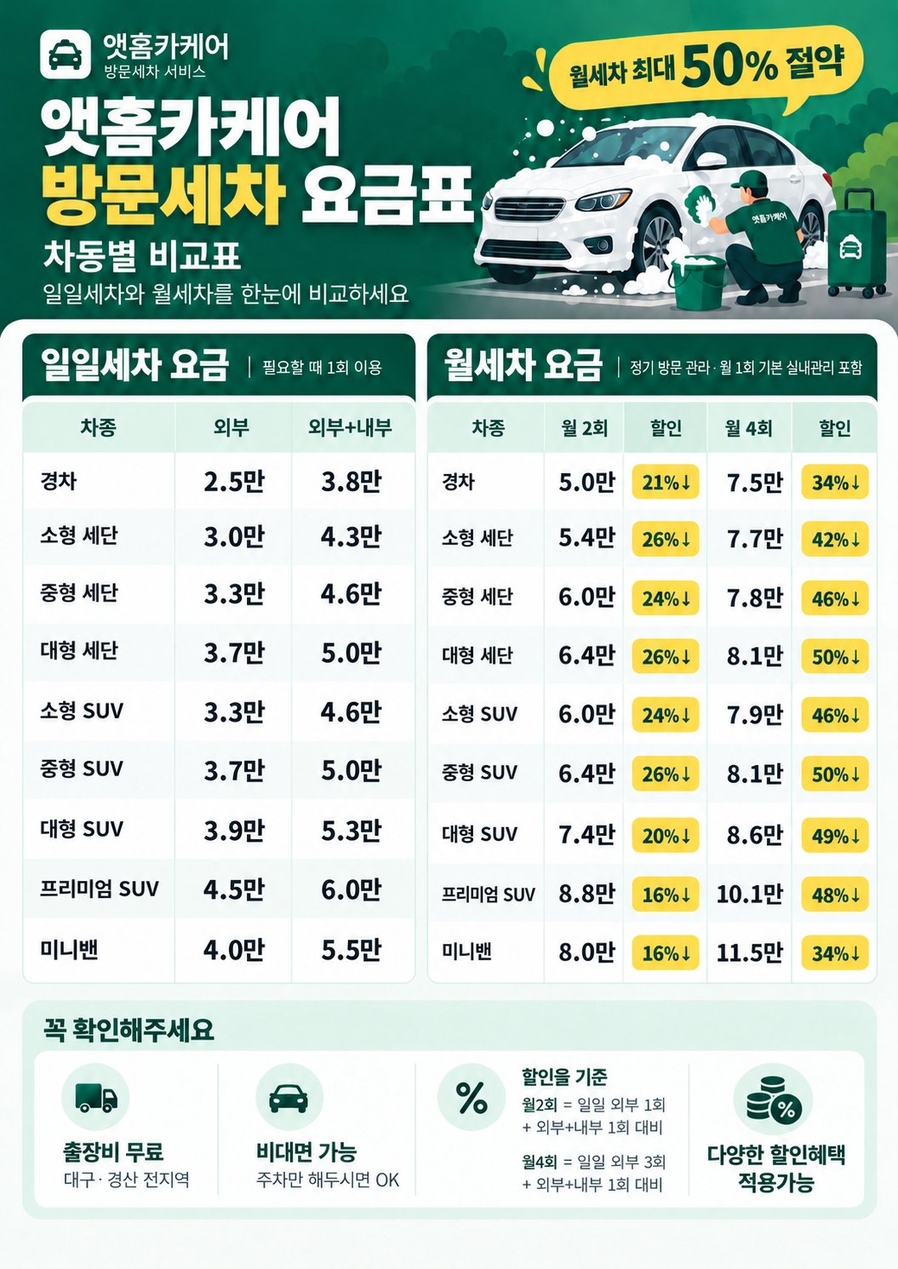
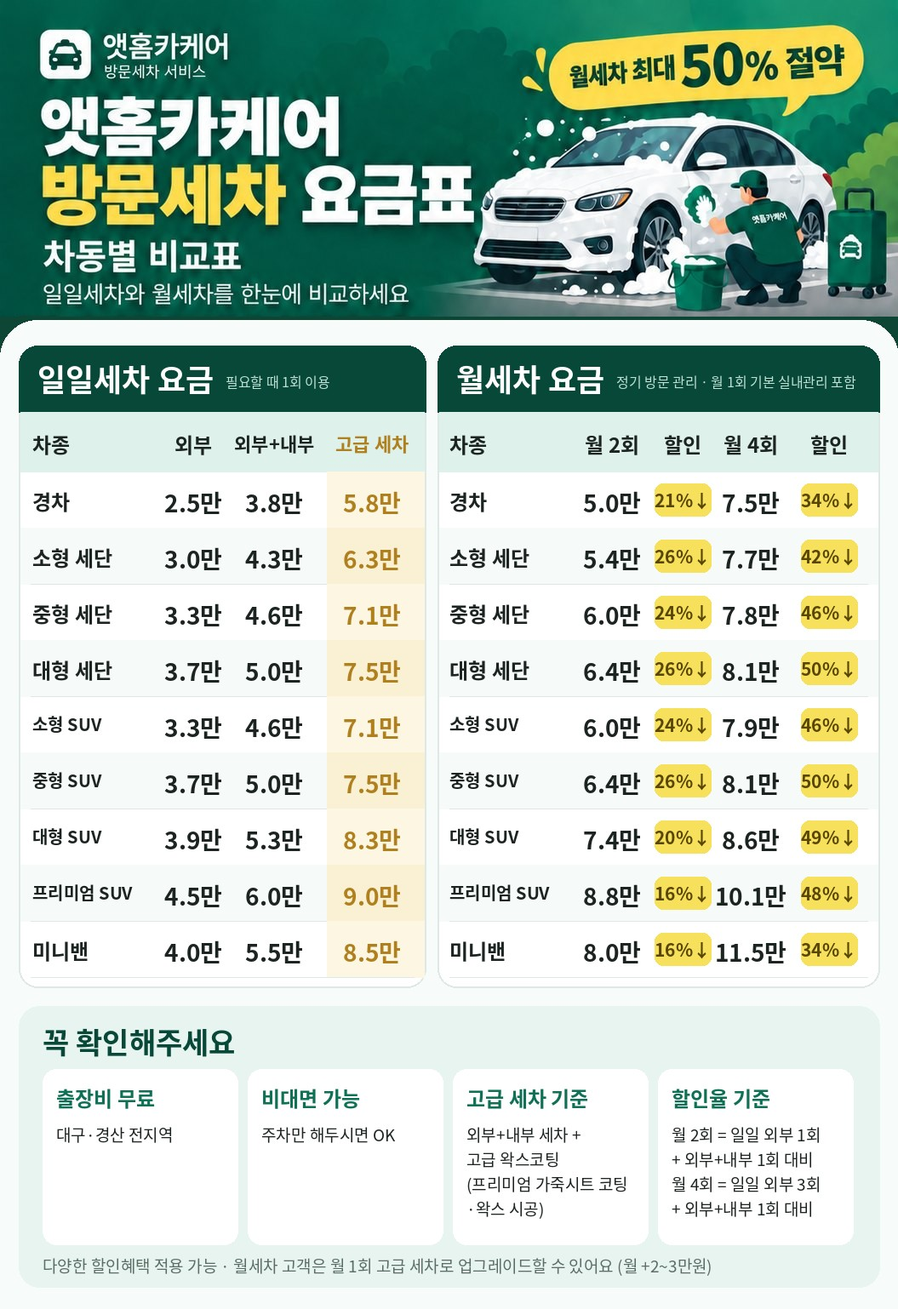
Add files via upload

Changed region(s): [[0.0, 0.0, 1.0, 0.9873]]

diff --git a/index.html b/index.html
@@ -102,7 +102,7 @@
 
         <section class="content-section" id="priceTableSection">
           <div class="section-head"><div><span class="section-kicker">PRICE</span><h2>방문세차 요금표</h2></div><button class="text-link" data-go="menu">차종별 상세 →</button></div>
-          <img class="process-img" src="assets/info/price-table.jpg" width="1055" height="1491" loading="lazy" alt="앳홈카케어 방문세차 요금표: 차종별 일일세차(외부·외부+내부)와 월세차(월 2회·월 4회) 요금 비교. 출장비 무료, 비대면 가능">
+          <img class="process-img" src="assets/info/price-table.jpg" width="1055" height="1538" loading="lazy" alt="앳홈카케어 방문세차 요금표: 차종별 일일세차(외부·외부+내부·고급 세차)와 월세차(월 2회·월 4회) 요금 비교. 출장비 무료, 비대면 가능">
         </section>
 
         <section class="content-section" id="washGuideSection">
@@ -328,6 +328,7 @@
         .pw-lines li + li{border-top:1px solid var(--pw-line)}
         .pw-lines li::before{content:none}
         .pw-lines dfn{font-style:normal;color:var(--pw-muted)}
+        .pw-lines dfn small{display:block;font-size:.72rem;opacity:.85}
         .pw-lines b{font-size:1.02rem;font-weight:900;letter-spacing:-.02em;white-space:nowrap}
 
         @media (prefers-reduced-motion:reduce){.pw *{transition:none!important}}
@@ -348,6 +349,7 @@
                   <ul class="pw-lines">
                     <li><dfn>월 4회</dfn><b>7.5만원</b></li>
                     <li><dfn>월 2회</dfn><b>5만원</b></li>
+                    <li><dfn>고급 업그레이드 <small>월 1회 고급 세차</small></dfn><b>+2만원</b></li>
                   </ul>
                 </div>
                 <div class="pw-group">
@@ -373,6 +375,7 @@
                   <ul class="pw-lines">
                     <li><dfn>월 4회</dfn><b>7.7만원</b></li>
                     <li><dfn>월 2회</dfn><b>5.4만원</b></li>
+                    <li><dfn>고급 업그레이드 <small>월 1회 고급 세차</small></dfn><b>+2만원</b></li>
                   </ul>
                 </div>
                 <div class="pw-group">
@@ -398,6 +401,7 @@
                   <ul class="pw-lines">
                     <li><dfn>월 4회</dfn><b>7.8만원</b></li>
                     <li><dfn>월 2회</dfn><b>6만원</b></li>
+                    <li><dfn>고급 업그레이드 <small>월 1회 고급 세차</small></dfn><b>+2.5만원</b></li>
                   </ul>
                 </div>
                 <div class="pw-group">
@@ -423,6 +427,7 @@
                   <ul class="pw-lines">
                     <li><dfn>월 4회</dfn><b>8.1만원</b></li>
                     <li><dfn>월 2회</dfn><b>6.4만원</b></li>
+                    <li><dfn>고급 업그레이드 <small>월 1회 고급 세차</small></dfn><b>+2.5만원</b></li>
                   </ul>
                 </div>
                 <div class="pw-group">
@@ -448,6 +453,7 @@
                   <ul class="pw-lines">
                     <li><dfn>월 4회</dfn><b>7.9만원</b></li>
                     <li><dfn>월 2회</dfn><b>6만원</b></li>
+                    <li><dfn>고급 업그레이드 <small>월 1회 고급 세차</small></dfn><b>+2.5만원</b></li>
                   </ul>
                 </div>
                 <div class="pw-group">
@@ -473,6 +479,7 @@
                   <ul class="pw-lines">
                     <li><dfn>월 4회</dfn><b>8.1만원</b></li>
                     <li><dfn>월 2회</dfn><b>6.4만원</b></li>
+                    <li><dfn>고급 업그레이드 <small>월 1회 고급 세차</small></dfn><b>+2.5만원</b></li>
                   </ul>
                 </div>
                 <div class="pw-group">
@@ -498,6 +505,7 @@
                   <ul class="pw-lines">
                     <li><dfn>월 4회</dfn><b>8.6만원</b></li>
                     <li><dfn>월 2회</dfn><b>7.4만원</b></li>
+                    <li><dfn>고급 업그레이드 <small>월 1회 고급 세차</small></dfn><b>+3만원</b></li>
                   </ul>
                 </div>
                 <div class="pw-group">
@@ -523,6 +531,7 @@
                   <ul class="pw-lines">
                     <li><dfn>월 4회</dfn><b>10.1만원</b></li>
                     <li><dfn>월 2회</dfn><b>8.8만원</b></li>
+                    <li><dfn>고급 업그레이드 <small>월 1회 고급 세차</small></dfn><b>+3만원</b></li>
                   </ul>
                 </div>
                 <div class="pw-group">
@@ -549,6 +558,7 @@
                   <ul class="pw-lines">
                     <li><dfn>월 4회</dfn><b>11.5만원</b></li>
                     <li><dfn>월 2회</dfn><b>8만원</b></li>
+                    <li><dfn>고급 업그레이드 <small>월 1회 고급 세차</small></dfn><b>+3만원</b></li>
                   </ul>
                 </div>
                 <div class="pw-group">
@@ -562,32 +572,6 @@
               </div>
             </div>
 
-
-            <div class="pw-item">
-              <button class="pw-row" type="button" aria-expanded="false" aria-controls="pw-p10">
-                <span class="pw-name">화물 · 탑차<span class="pw-models">포터 · 봉고 · 탑차 · 카고 등</span></span>
-                <span class="pw-from">5만원~</span>
-                <span class="pw-chev" aria-hidden="true"></span>
-              </button>
-              <div class="pw-panel" id="pw-p10">
-                <div class="pw-group">
-                  <p class="pw-gtitle">월세차 <span>업무용 차량 정기관리</span></p>
-                  <ul class="pw-lines">
-                    <li><dfn>월 4회</dfn><b>13.5만원</b></li>
-                    <li><dfn>월 2회</dfn><b>9.5만원</b></li>
-                  </ul>
-                </div>
-                <div class="pw-group">
-                  <p class="pw-gtitle">일일세차 <span>캡 + 탑 외부 포함</span></p>
-                  <ul class="pw-lines">
-                    <li><dfn>외부</dfn><b>5만원</b></li>
-                    <li><dfn>외부+캡 실내</dfn><b>6.5만원</b></li>
-                    <li><dfn>고급 세차</dfn><b>9.5만원</b></li>
-                  </ul>
-                </div>
-                <p class="pw-note">실내 옵션은 캡이 좁아 중형 요금이 적용됩니다. 탑 내부(적재함) 청소는 오염도에 따라 3~5만원 별도 견적입니다.</p>
-              </div>
-            </div>
 
           </div>
         </section>
@@ -616,7 +600,7 @@
         <!-- ▲▲▲ 차종별 요금 아코디언 끝 ▲▲▲ -->
 
         <div class="two-col">
-          <article class="panel"><h2>추가 옵션</h2><p class="opt-size-note">차량 크기에 따라 금액이 달라집니다. 소형: 경차·소형 세단 · 중형: 중형·대형 세단, 소형·중형 SUV · 대형: 대형 SUV, 프리미엄 SUV, 미니밴, 화물·탑차(실내 옵션은 중형). 실내 옵션은 외부세차에 추가할 때 기준이며, 실내까지 원하시면 외부+내부 세차가 더 저렴합니다.</p><div class="option-list"><div><span>휠 철분·집중세정<small class="opt-size">소형 1만 · 중형 1.2만 · 대형 1.5만</small></span><b>+10,000원~</b></div><div><span>고급 왁스코팅<small class="opt-size">소형 2만 · 중형 2.5만 · 대형 3만</small></span><b>+20,000원~</b></div><div><span>실내 집중세차<small class="opt-size">소형 1.5만 · 중형 1.8만 · 대형 2.2만</small></span><b>+15,000원~</b></div><div><span>트렁크 청소<small class="opt-size">소형 1만 · 중형 1만 · 대형 1.5만</small></span><b>+10,000원~</b></div><div><span>벌레·타르 제거<small class="opt-size">소형 1만 · 중형 1.2만 · 대형 1.5만</small></span><b>+10,000원~</b></div><div><span>유리 유막제거<small class="opt-size">소형 1.5만 · 중형 1.8만 · 대형 2.2만</small></span><b>+15,000원~</b></div><div><span>발수코팅<small class="opt-size">소형 2만 · 중형 2.5만 · 대형 3만</small></span><b>+20,000원~</b></div><div><span>엔진룸 클리닝<small class="opt-size">소형 2만 · 중형 2.5만 · 대형 3만</small><small class="opt-size2">전기차·수소차 제외</small></span><b>+20,000원~</b></div><div><span>송진 제거<small class="opt-size">가벼움 1만 · 보통 2만 · 심함 별도</small><small class="opt-size2">현장 확인 후 추가될 수 있어요</small></span><b>+10,000원~</b></div></div>
+          <article class="panel"><h2>추가 옵션</h2><p class="opt-size-note">차량 크기에 따라 금액이 달라집니다. 소형: 경차·소형 세단 · 중형: 중형·대형 세단, 소형·중형 SUV · 대형: 대형 SUV, 프리미엄 SUV, 미니밴. 실내 옵션은 외부세차에 추가할 때 기준이며, 실내까지 원하시면 외부+내부 세차가 더 저렴합니다.</p><div class="option-list"><div><span>휠 철분·집중세정<small class="opt-size">소형 1만 · 중형 1.2만 · 대형 1.5만</small></span><b>+10,000원~</b></div><div><span>고급 왁스코팅<small class="opt-size">소형 2만 · 중형 2.5만 · 대형 3만</small></span><b>+20,000원~</b></div><div><span>실내 집중세차<small class="opt-size">소형 1.5만 · 중형 1.8만 · 대형 2.2만</small></span><b>+15,000원~</b></div><div><span>트렁크 청소<small class="opt-size">소형 1만 · 중형 1만 · 대형 1.5만</small></span><b>+10,000원~</b></div><div><span>벌레·타르 제거<small class="opt-size">소형 1만 · 중형 1.2만 · 대형 1.5만</small></span><b>+10,000원~</b></div><div><span>유리 유막제거<small class="opt-size">소형 1.5만 · 중형 1.8만 · 대형 2.2만</small></span><b>+15,000원~</b></div><div><span>발수코팅<small class="opt-size">소형 2만 · 중형 2.5만 · 대형 3만</small></span><b>+20,000원~</b></div><div><span>엔진룸 클리닝<small class="opt-size">소형 2만 · 중형 2.5만 · 대형 3만</small><small class="opt-size2">전기차·수소차 제외</small></span><b>+20,000원~</b></div><div><span>송진 제거<small class="opt-size">가벼움 1만 · 보통 2만 · 심함 별도</small><small class="opt-size2">현장 확인 후 추가될 수 있어요</small></span><b>+10,000원~</b></div></div>
             <div class="opt-detail">
               <h3>🌲 송진 제거 단계</h3>
               <table class="opt-step"><tr><th>가벼움</th><td>몇 군데, 손톱만 한 크기, 아직 말랑함</td><td>10,000원</td></tr>
@@ -717,6 +701,7 @@
         <h2 class="vip-title">월세차 고객이라면, 늘 함께하는 혜택</h2>
         <div class="vip-benefits">
           <article class="vip-card"><span class="vip-ic">🎁</span><h4>첫 달 할인</h4><p>월 4회 <b>10,000원</b>, 월 2회 <b>5,000원</b> 할인이 첫 달에 자동으로 적용돼요.</p></article>
+          <article class="vip-card"><span class="vip-ic">✨</span><h4>고급 세차 업그레이드</h4><p>월 2회·월 4회 모두 매달 1회를 <b>고급 세차</b>(프리미엄 가죽시트 코팅 + 프리미엄 왁스 시공)로 업그레이드할 수 있어요. <small class="vip-worth">차량 크기별 월 +20,000~30,000원</small></p></article>
           <article class="vip-card"><span class="vip-ic">🏆</span><h4>3개월 이용 감사 혜택</h4><p>3개월 이용하실 때마다 <b>고급 왁스코팅 1회</b>를 무료로 해드려요.<br><small class="vip-worth">옵션 요금 기준 소형 20,000원 · 중형 25,000원 · 대형 30,000원 상당</small></p></article>
           <article class="vip-card"><span class="vip-ic">🏢</span><h4>같은 아파트 함께 신청</h4><p>같은 아파트에서 <b>5대 이상</b> 신청하시면 차량당 <b>5,000원</b> 할인돼요.</p></article>
           <article class="vip-card"><span class="vip-ic">📋</span><h4>매달 차량 관리 리포트</h4><p>한 달 동안의 <b>작업 전후 사진</b>과 차량 상태, <b>다음 달 추천 관리</b>를 정리해 보내드려요.</p></article>
@@ -792,7 +777,6 @@
               <option>대형 SUV</option>
               <option>프리미엄 SUV</option>
               <option>미니밴</option>
-              <option>화물·탑차</option>
             </select></label>
             <label>희망 서비스<select name="service">
               <option>월 2회</option>
@@ -807,6 +791,7 @@
             <div class="span-2 opt-field">
               <span class="opt-title">추가 옵션 <small class="field-hint">필요한 항목을 선택하세요 (선택사항)</small></span>
               <div class="opt-grid">
+                <label class="opt-chip"><input type="checkbox" name="options" value="월세차 고급 업그레이드"><span>월세차 고급 업그레이드<small>월 1회 고급 세차 +20,000원~</small></span></label>
                 <label class="opt-chip"><input type="checkbox" name="options" value="휠 철분·집중세정"><span>휠 철분·집중세정<small>+10,000원~</small></span></label>
                 <label class="opt-chip"><input type="checkbox" name="options" value="고급 왁스코팅"><span>고급 왁스코팅<small>+20,000원~</small></span></label>
                 <label class="opt-chip"><input type="checkbox" name="options" value="실내 집중세차"><span>실내 집중세차<small>+15,000원~</small></span></label>

diff --git a/app.js b/app.js
@@ -410,8 +410,8 @@ function bindEvents() {
 
 /* ── 제조사 · 모델 선택 + 차종 구분 자동 지정 ─────────────────── */
 const CAR_DB = [
-  ['현대', [['캐스퍼','경차'], ['아반떼','소형 세단'], ['쏘나타','중형 세단'], ['그랜저','대형 세단'], ['아이오닉5','중형 SUV'], ['아이오닉7','대형 SUV'], ['아이오닉6','중형 세단'], ['아이오닉9','대형 SUV'], ['베뉴','소형 SUV'], ['코나','소형 SUV'], ['투싼','중형 SUV'], ['싼타페','대형 SUV'], ['넥쏘','중형 SUV'], ['팰리세이드','대형 SUV'], ['스타리아','미니밴'], ['포터','화물·탑차'], ['포터 일렉트릭','화물·탑차']]],
-  ['기아', [['모닝','경차'], ['레이','소형 SUV'], ['K3','소형 세단'], ['K5','중형 세단'], ['K8','대형 세단'], ['K9','대형 세단'], ['스팅어','중형 세단'], ['EV3','소형 SUV'], ['EV4','소형 세단'], ['EV5','중형 SUV'], ['셀토스','소형 SUV'], ['니로','중형 SUV'], ['EV6','중형 SUV'], ['스포티지','중형 SUV'], ['쏘렌토','대형 SUV'], ['EV9','대형 SUV'], ['모하비','대형 SUV'], ['카니발','미니밴'], ['봉고','화물·탑차'], ['봉고 EV','화물·탑차']]],
+  ['현대', [['캐스퍼','경차'], ['아반떼','소형 세단'], ['쏘나타','중형 세단'], ['그랜저','대형 세단'], ['아이오닉5','중형 SUV'], ['아이오닉7','대형 SUV'], ['아이오닉6','중형 세단'], ['아이오닉9','대형 SUV'], ['베뉴','소형 SUV'], ['코나','소형 SUV'], ['투싼','중형 SUV'], ['싼타페','대형 SUV'], ['넥쏘','중형 SUV'], ['팰리세이드','대형 SUV'], ['스타리아','미니밴'], ]],
+  ['기아', [['모닝','경차'], ['레이','소형 SUV'], ['K3','소형 세단'], ['K5','중형 세단'], ['K8','대형 세단'], ['K9','대형 세단'], ['스팅어','중형 세단'], ['EV3','소형 SUV'], ['EV4','소형 세단'], ['EV5','중형 SUV'], ['셀토스','소형 SUV'], ['니로','중형 SUV'], ['EV6','중형 SUV'], ['스포티지','중형 SUV'], ['쏘렌토','대형 SUV'], ['EV9','대형 SUV'], ['모하비','대형 SUV'], ['카니발','미니밴'], ]],
   ['제네시스', [['G70','소형 세단'], ['G80','대형 세단'], ['G90','대형 세단'], ['GV60','소형 SUV'], ['GV70','중형 SUV'], ['GV80','프리미엄 SUV']]],
   ['KG모빌리티(쌍용)', [['티볼리','소형 SUV'], ['코란도','소형 SUV'], ['액티언','중형 SUV'], ['토레스','중형 SUV'], ['렉스턴','프리미엄 SUV'], ['렉스턴 스포츠','대형 SUV']]],
   ['르노코리아', [['SM6','중형 세단'], ['XM3·아르카나','소형 SUV'], ['캡처','소형 SUV'], ['QM6','중형 SUV'], ['그랑 콜레오스','중형 SUV'], ['세닉 E-Tech','소형 SUV']]],
@@ -421,7 +421,7 @@ const CAR_DB = [
   ['아우디', [['A3','소형 세단'], ['A4','소형 세단'], ['A5','중형 세단'], ['A6','대형 세단'], ['A7','대형 세단'], ['e-트론 GT','대형 세단'], ['A8','대형 세단'], ['Q2','소형 SUV'], ['Q3','소형 SUV'], ['Q4 e-트론','중형 SUV'], ['Q6 e-트론','중형 SUV'], ['Q5','중형 SUV'], ['Q7','프리미엄 SUV'], ['Q8','프리미엄 SUV']]],
   ['폭스바겐', [['폴로','소형 세단'], ['골프','소형 세단'], ['제타','소형 세단'], ['파사트','중형 세단'], ['아테온','중형 세단'], ['티록','소형 SUV'], ['티구안','중형 SUV'], ['ID.4','중형 SUV'], ['ID.5','중형 SUV'], ['투아렉','프리미엄 SUV']]],
   ['볼보', [['S60','중형 세단'], ['S90','대형 세단'], ['V60','중형 세단'], ['EX30','소형 SUV'], ['EX40','중형 SUV'], ['XC40','소형 SUV'], ['XC60','중형 SUV'], ['XC90','프리미엄 SUV'], ['EX90','프리미엄 SUV']]],
-  ['테슬라', [['모델3','중형 세단'], ['모델Y','중형 SUV'], ['사이버트럭','화물·탑차'], ['모델S','대형 세단'], ['모델X','프리미엄 SUV']]],
+  ['테슬라', [['모델3','중형 세단'], ['모델Y','중형 SUV'], ['모델S','대형 세단'], ['모델X','프리미엄 SUV']]],
   ['렉서스', [['IS','소형 세단'], ['ES','대형 세단'], ['LS','대형 세단'], ['UX','소형 SUV'], ['NX','중형 SUV'], ['RX','프리미엄 SUV'], ['LM','미니밴']]],
   ['토요타', [['코롤라','소형 세단'], ['프리우스','소형 세단'], ['캠리','중형 세단'], ['크라운','중형 세단'], ['RAV4','중형 SUV'], ['하이랜더','대형 SUV'], ['시에나','미니밴'], ['알파드','미니밴']]],
   ['혼다', [['시빅','소형 세단'], ['어코드','중형 세단'], ['CR-V','중형 SUV'], ['파일럿','대형 SUV'], ['오딧세이','미니밴']]],
@@ -450,12 +450,12 @@ const PRICE_TABLE = {
   '대형 SUV': { '월 4회': 86000, '월 2회': 74000, '일일 외부세차': 39000, '외부+내부세차': 53000, '고급 세차': 83000 },
   '프리미엄 SUV': { '월 4회': 101000, '월 2회': 88000, '일일 외부세차': 45000, '외부+내부세차': 60000, '고급 세차': 90000 },
   '미니밴': { '월 4회': 115000, '월 2회': 80000, '일일 외부세차': 40000, '외부+내부세차': 55000, '고급 세차': 85000 },
-  '화물·탑차': { '월 4회': 135000, '월 2회': 95000, '일일 외부세차': 50000, '외부+내부세차': 65000, '고급 세차': 95000 },
 };
 /* 추가 옵션 — 차량 크기별 [소형, 중형, 대형] */
 const OPTION_PRICES = {
   '휠 철분·집중세정':   [10000, 12000, 15000],
   '고급 왁스코팅':   [20000, 25000, 30000],
+  '월세차 고급 업그레이드': [20000, 25000, 30000],   // 월세차 매달 1회 고급 세차(프리미엄 가죽시트 코팅 + 프리미엄 왁스 시공) 업그레이드
   '실내 집중세차':      [15000, 18000, 22000],
   '트렁크 청소':        [10000, 10000, 15000],
   '벌레·타르 제거':     [10000, 12000, 15000],
@@ -467,13 +467,10 @@ const OPTION_PRICES = {
 const SIZE_OF_CLASS = {
   '경차': 0, '소형 세단': 0,
   '중형 세단': 1, '대형 세단': 1, '소형 SUV': 1, '중형 SUV': 1,
-  '대형 SUV': 2, '프리미엄 SUV': 2, '미니밴': 2, '화물·탑차': 2,
+  '대형 SUV': 2, '프리미엄 SUV': 2, '미니밴': 2,
 };
 const SIZE_LABEL = ['소형', '중형', '대형'];
-/* 화물·탑차는 캡 실내가 좁아 실내 옵션만 중형 요금 적용 */
-const INTERIOR_OPTIONS = new Set(['실내 집중세차']);
 function optionSize(name, cls) {
-  if (cls === '화물·탑차' && INTERIOR_OPTIONS.has(name)) return 1;
   return SIZE_OF_CLASS[cls] ?? 0;
 }
 function optionPrice(name, cls) {
@@ -518,10 +515,12 @@ function refreshOptionChips(form) {
   const known = cls in SIZE_OF_CLASS;
   form.querySelectorAll('[name="options"]').forEach((box) => {
     const chip = box.closest('label');
-    // 화물·탑차는 트렁크가 없어 트렁크 청소 옵션 숨김 (적재함은 별도 견적)
     // 전기차·수소차는 고전압 부품 보호를 위해 엔진룸 클리닝 불가
-    const hide = (cls === '화물·탑차' && box.value === '트렁크 청소')
-      || (box.value === '엔진룸 클리닝' && isEvModel(currentModelName(form)));
+    const svcNow = form.querySelector('[name="service"]')?.value || '';
+    const monthlyNow = svcNow === '월 2회' || svcNow === '월 4회';
+    const hide = (box.value === '엔진룸 클리닝' && isEvModel(currentModelName(form)))
+      || (box.value === '월세차 고급 업그레이드' && !monthlyNow)
+      || (box.value === '고급 왁스코팅' && svcNow === '고급 세차');
     if (chip) chip.classList.toggle('hidden', hide);
     if (hide) box.checked = false;
     const small = chip?.querySelector('small');
@@ -551,6 +550,9 @@ function renderOptionNotice(form) {
   if (!box) return;
   const msgs = [];
   if (isEvModel(currentModelName(form))) msgs.push('🔌 전기차·수소차는 고전압 부품 보호를 위해 엔진룸 클리닝을 진행하지 않습니다.');
+  if (form.querySelector('[name="options"][value="월세차 고급 업그레이드"]:checked')) {
+    msgs.push('✨ 월세차 고급 업그레이드: 매달 1회 프리미엄 가죽시트 코팅과 프리미엄 왁스 시공이 포함된 고급 세차로 진행합니다.');
+  }
   if (form.querySelector('[name="options"][value="송진 제거"]:checked')) {
     msgs.push('🌲 송진 제거는 가벼움 10,000원 기준이며, 현장에서 상태(가벼움·보통·심함)를 확인한 뒤 요금이 추가될 수 있어요. 보통 20,000원 · 심함은 현장 견적이며, 작업 전에 금액을 먼저 안내드립니다.');
   }

diff --git a/price.html b/price.html
@@ -58,30 +58,28 @@ footer{text-align:center;color:var(--mut);font-size:13px;padding:24px 0 40px}
 <tr><th scope="row">대형 SUV<small>쏘렌토·싼타페·팰리세이드·모하비</small></th><td>39,000원</td><td>53,000원</td><td>83,000원</td></tr>
 <tr><th scope="row">프리미엄 SUV<small>카이엔·렉스턴·GV80·X5·GLE·레인지로버·에스컬레이드</small></th><td>45,000원</td><td>60,000원</td><td>90,000원</td></tr>
 <tr><th scope="row">미니밴<small>카니발·스타리아·시에나·알파드</small></th><td>40,000원</td><td>55,000원</td><td>85,000원</td></tr>
-<tr><th scope="row">화물·탑차<small>포터·봉고·탑차</small></th><td>50,000원</td><td>65,000원<small>캡 실내</small></td><td>95,000원<small>캡 기준</small></td></tr>
 </tbody></table></div>
-<p class="note">내부세차: 매트 흙·먼지 제거, 진공청소, 대시보드·내측 유리 정리. 화물·탑차 적재함 청소는 오염도에 따라 3~5만원 별도 견적입니다.</p>
+<p class="note">내부세차: 매트 흙·먼지 제거, 진공청소, 대시보드·내측 유리 정리.</p>
 </section>
 <section id="monthly">
 <h2>월세차 요금</h2>
 <p class="sub">정기 방문으로 항상 깨끗하게. 월 1회 기본 실내관리가 포함되어 있습니다.</p>
-<div class="tbl"><table><thead><tr><th scope="col">차종</th><th scope="col">월 2회</th><th scope="col">월 4회</th></tr></thead><tbody>
-<tr><th scope="row">경차</th><td>50,000원</td><td>75,000원</td></tr>
-<tr><th scope="row">소형 세단</th><td>54,000원</td><td>77,000원</td></tr>
-<tr><th scope="row">중형 세단</th><td>60,000원</td><td>78,000원</td></tr>
-<tr><th scope="row">대형 세단</th><td>64,000원</td><td>81,000원</td></tr>
-<tr><th scope="row">소형 SUV</th><td>60,000원</td><td>79,000원</td></tr>
-<tr><th scope="row">중형 SUV</th><td>64,000원</td><td>81,000원</td></tr>
-<tr><th scope="row">대형 SUV</th><td>74,000원</td><td>86,000원</td></tr>
-<tr><th scope="row">프리미엄 SUV</th><td>88,000원</td><td>101,000원</td></tr>
-<tr><th scope="row">미니밴</th><td>80,000원</td><td>115,000원</td></tr>
-<tr><th scope="row">화물·탑차</th><td>95,000원</td><td>135,000원</td></tr>
+<div class="tbl"><table><thead><tr><th scope="col">차종</th><th scope="col">월 2회</th><th scope="col">월 4회</th><th scope="col">고급 업그레이드(월 1회)</th></tr></thead><tbody>
+<tr><th scope="row">경차</th><td>50,000원</td><td>75,000원</td><td>+20,000원</td></tr>
+<tr><th scope="row">소형 세단</th><td>54,000원</td><td>77,000원</td><td>+20,000원</td></tr>
+<tr><th scope="row">중형 세단</th><td>60,000원</td><td>78,000원</td><td>+25,000원</td></tr>
+<tr><th scope="row">대형 세단</th><td>64,000원</td><td>81,000원</td><td>+25,000원</td></tr>
+<tr><th scope="row">소형 SUV</th><td>60,000원</td><td>79,000원</td><td>+25,000원</td></tr>
+<tr><th scope="row">중형 SUV</th><td>64,000원</td><td>81,000원</td><td>+25,000원</td></tr>
+<tr><th scope="row">대형 SUV</th><td>74,000원</td><td>86,000원</td><td>+30,000원</td></tr>
+<tr><th scope="row">프리미엄 SUV</th><td>88,000원</td><td>101,000원</td><td>+30,000원</td></tr>
+<tr><th scope="row">미니밴</th><td>80,000원</td><td>115,000원</td><td>+30,000원</td></tr>
 </tbody></table></div>
 <p class="note">차량 상태와 주차 환경에 따라 금액이 조정될 수 있어 시작가로 표시했습니다.</p>
 </section>
 <section id="options">
 <h2>추가 옵션 요금</h2>
-<p class="sub">소형: 경차·소형 세단 · 중형: 중형·대형 세단, 소형·중형 SUV · 대형: 대형 SUV·프리미엄 SUV·미니밴·화물</p>
+<p class="sub">소형: 경차·소형 세단 · 중형: 중형·대형 세단, 소형·중형 SUV · 대형: 대형 SUV·프리미엄 SUV·미니밴</p>
 <div class="tbl"><table><thead><tr><th scope="col">옵션</th><th scope="col">소형</th><th scope="col">중형</th><th scope="col">대형</th></tr></thead><tbody>
 <tr><th scope="row">휠 철분·집중세정</th><td>1만</td><td>1.2만</td><td>1.5만</td></tr>
 <tr><th scope="row">고급 왁스코팅</th><td>2만</td><td>2.5만</td><td>3만</td></tr>

diff --git a/service-worker.js b/service-worker.js
@@ -1,4 +1,4 @@
-const CACHE = 'athome-carcare-v115';
+const CACHE = 'athome-carcare-v118';
 const ASSETS = [
   './', './index.html', './styles.css?v=20260916-1line', './home-polish.css?v=20260916-nohero1', './restore-classic.js?v=20260916-2', './compat-fix.js?v=20260916-3', './app.js?v=20261007-care1', './supabase-integration.js?v=20261006-kakaosplit', './manifest.webmanifest?v=20261001-icon7', './data/content.json',
 './icons/icon-192.png?v=20261001-icon7', './icons/icon-512.png?v=20261001-icon7', './icons/icon-maskable-512.png?v=20261001-icon7',

diff --git a/supabase-integration.js b/supabase-integration.js
@@ -8,7 +8,7 @@
   const SUPABASE_KEY = 'sb_publishable_ZMYuEmyPRMc0Q3c2q2Ok3A_vjCYppoE';
   const SESSION_KEY  = 'athomeCarcareAdminSession';
 
-  // 차종 구분 10종 (개선점 2: 예약 폼 선택지)
+  // 차종 구분 9종 (개선점 2: 예약 폼 선택지)
   const CAR_CLASSES = [
     '경차',
     '소형 세단',
@@ -19,7 +19,6 @@
     '대형 SUV',
     '프리미엄 SUV',
     '미니밴',
-    '화물·탑차',
   ];
 
   const STATUSES = ['접수', '확정', '완료', '취소'];
